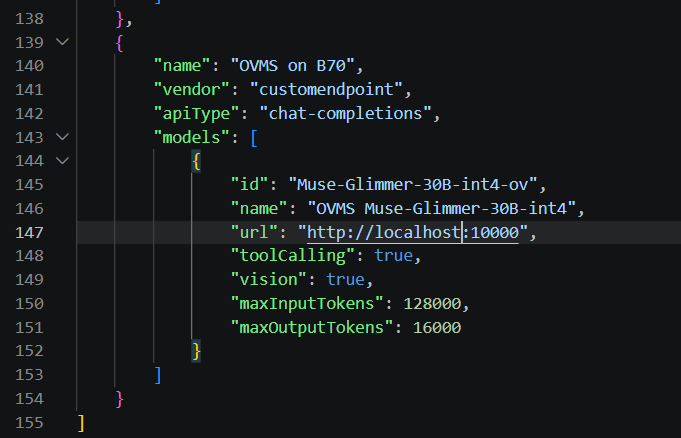
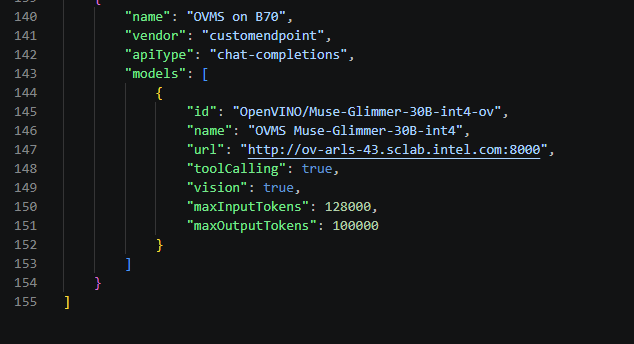
Review

diff --git a/demos/copilot_integration/README.md b/demos/copilot_integration/README.md
@@ -7,16 +7,32 @@ GitHub Copilot in Visual Studio Code can talk to **any** OpenAI-compatible endpo
 feature. This demo shows how to serve a local model with OpenVINO Model Server (OVMS) and use it as
 the backing model for Copilot Chat / Agent mode - keeping your code and prompts on your own hardware.
 
-In the walkthrough below we use the vision- and tool-calling-capable model
-[`OpenVINO/Muse-Glimmer-30B-int4-ov`](https://huggingface.co/OpenVINO/Muse-Glimmer-30B-int4-ov)
-running on an Intel Arc GPU, and let Copilot Agent build a small full-stack application end to end.
+In the walkthrough below we let Copilot Agent build a small full-stack application end to end, backed
+by a model of your choice from the [Suggested models](#suggested-models) table running on OVMS.
 
 ## Requirements
 
 - Visual Studio Code with GitHub Copilot enabled
-- An OVMS endpoint serving a chat-completions model (see [Deploy OVMS](#1-deploy-ovms))
-- For self-hosting: Linux with Docker and an Intel GPU with at least 16 GB of VRAM
-  (`Muse-Glimmer-30B-int4-ov` is a 30B model with ~15 GB of INT4 weights)
+- An OVMS endpoint serving a chat-completions model with tool-calling support. Either deploy one
+  yourself (see [Deploy OVMS](#1-deploy-ovms)), or if someone else already has one running for you,
+  skip straight to [Configure VS Code](#2-configure-vs-code) - you'll only need its endpoint URL and
+  served model name.
+- For self-hosting: Linux with Docker and an Intel GPU
+- Memory requirements depend on the chosen model (see table below)
+
+## Suggested models
+
+| Model | HF Link | Notes |
+|---|---|---|
+| `OpenVINO/Qwen3.8-27B-int8-ov` | [link](https://huggingface.co/OpenVINO/Qwen3.8-27B-int8-ov) | Vision-capable (VLM); general purpose chat/agent model |
+| `OpenVINO/Qwen3.6-35B-A3B-int4-ov` | [link](https://huggingface.co/OpenVINO/Qwen3.6-35B-A3B-int4-ov) | Vision-capable (VLM); general purpose chat/agent model |
+| `OpenVINO/Muse-Glimmer-30B-int4-ov` | [link](https://huggingface.co/OpenVINO/Muse-Glimmer-30B-int4-ov) | Vision-capable (VLM); general purpose chat/agent model; used and tested in the walkthrough below |
+| `OpenVINO/gpt-oss-20b-int4-ov` | [link](https://huggingface.co/OpenVINO/gpt-oss-20b-int4-ov) | General purpose chat/agent model |
+| `OpenVINO/Qwen3-Coder-Next` | **To be published soon** | Big coding model; available only on iGPU with minimum 64GB of RAM |
+| `OpenVINO/Qwen3.5-9B-int4-ov` | [link](https://huggingface.co/OpenVINO/Qwen3.5-9B-int4-ov) | Smaller model, use when RAM/VRAM is limited or for quick, low-latency edits; not recommended for harder coding tasks |
+
+The walkthrough below was tested with `Muse-Glimmer-30B-int4-ov` on a discrete Intel Arc B70 GPU; the
+other models are suggested but not verified with this specific demo.
 
 > **Note:** Any OpenAI chat-completions model served by OVMS will work with the VS Code steps below -
 > just adjust the model id/name accordingly.
@@ -28,26 +44,28 @@ running on an Intel Arc GPU, and let Copilot Agent build a small full-stack appl
 > You only need the endpoint URL and the served model name.
 
 Deploy the model with Docker on a Linux host with an Intel GPU. The command below exposes the REST
-API on port `10000`, matching the URL used later in VS Code (`http://localhost:10000`):
+API on port `8000`, matching the URL used later in VS Code (`http://localhost:8000`). Only
+`--source_model` needs to change to deploy a different model from the [Suggested models](#suggested-models)
+table:
 
 ```bash
+mkdir -p ${HOME}/models/cache
 export GPU_ARGS=$(if ls /dev/dri/render* >/dev/null 2>&1; then echo "--device /dev/dri --group-add $(stat -c '%g' /dev/dri/render* | head -n1)"; fi)
 docker run -d ${GPU_ARGS} -u $(id -u):$(id -g) --rm \
-    -p 10000:10000 -v ${HOME}/models:/models:rw \
+    -p 8000:8000 -v ${HOME}/models:/models:rw \
     openvino/model_server:latest-gpu \
-    --rest_port 10000 --model_repository_path /models \
-    --source_model OpenVINO/Muse-Glimmer-30B-int4-ov \
-    --model_name Muse-Glimmer-30B-int4-ov \
-    --target_device GPU
+    --rest_port 8000 --model_repository_path /models --cache_dir /models/cache \
+    --source_model OpenVINO/Muse-Glimmer-30B-int4-ov
 ```
 
 > **Note:** The first launch downloads the model into `${HOME}/models` and compiles it for the GPU,
-> which can take a while. Subsequent starts reuse the cached model and are fast.
+> which can take a while depending on your connection and hardware. Subsequent starts reuse the
+> downloaded model and the compiled-model cache in `${HOME}/models/cache`, and are ready in a few seconds.
 
 Verify the model is being served:
 
 ```bash
-curl http://localhost:10000/v1/models
+curl http://localhost:8000/v1/models
 ```
 
 ## 2. Configure VS Code
@@ -59,14 +77,17 @@ Add the OVMS endpoint as a custom model in Copilot's language model picker.
 3. Choose **Custom Endpoint**.
 4. Enter a **group name** that identifies the endpoint, e.g. `OVMS on B70`
    (here `B70` refers to the Intel Arc GPU running OVMS).
-5. Leave the **API key** empty (OVMS does not require one).
+5. Leave the **API key** empty, or set one if OVMS is configured to require it (must match on both sides).
 6. Select the **API type** - this demo uses **chat completions**.
 7. Fill in the model details in the generated configuration:
    - **name** - display name shown in VS Code, e.g. `OVMS Muse-Glimmer-30B-int4`
-   - **id** - the model name as deployed in OVMS (`--model_name`), here `Muse-Glimmer-30B-int4-ov`
-   - **url** - the OVMS endpoint URL, here `http://localhost:10000`
+   - **id** - the model name as deployed in OVMS (`--source_model`), here `OpenVINO/Muse-Glimmer-30B-int4-ov`
+   - **url** - the OVMS endpoint URL, here `http://localhost:8000`
 
 ![Fill in model name, id and url](images/FillModelIdNameUrl.png)
+
+> See VS Code's [model configuration reference](https://code.visualstudio.com/docs/agent-customization/language-models#_model-configuration-reference)
+> for the full list of available fields (including `toolCalling` and `vision`).
 
 > **Note:** The **id** must exactly match the model name served by OVMS (the `--model_name` value, or
 > the `--source_model` string if `--model_name` is omitted). `toolCalling` and `vision` are enabled
@@ -76,6 +97,9 @@ Add the OVMS endpoint as a custom model in Copilot's language model picker.
 
 1. Start a new Copilot Chat / Agent session and select your model (e.g. `OVMS Muse-Glimmer-30B-int4`)
    from the model picker.
+
+![Select model](images/SelectModel.png)
+
 2. Enter your prompt.
 3. When Copilot asks for permission to edit files or run commands, click **Allow**, then wait for the
    model to finish.
@@ -84,20 +108,13 @@ Add the OVMS endpoint as a custom model in Copilot's language model picker.
 
 This prompt is adapted from Intel's
 [Coding Agentic Workflow](https://github.com/intel-samples/agentic-demos/tree/main/CodingAgenticWorkflow)
-sample. It references two reference UI mock-up images that guide the generated interface. Download them
-first and update the paths in the prompt to match where you saved them:
+sample. It references two reference UI mock-up images that guide the generated interface:
 
 - [feedback-input.png](https://github.com/intel-samples/agentic-demos/blob/main/CodingAgenticWorkflow/assets/feedback-input.png)
 - [admin-dashboard-ui.png](https://github.com/intel-samples/agentic-demos/blob/main/CodingAgenticWorkflow/assets/admin-dashboard-ui.png)
 
-```bash
-mkdir -p ~/Downloads
-curl -L -o ~/Downloads/feedback-input.png https://raw.githubusercontent.com/intel-samples/agentic-demos/main/CodingAgenticWorkflow/assets/feedback-input.png
-curl -L -o ~/Downloads/admin-dashboard-ui.png https://raw.githubusercontent.com/intel-samples/agentic-demos/main/CodingAgenticWorkflow/assets/admin-dashboard-ui.png
-```
-
-> **Note:** The prompt below references the images by local file path (e.g.
-> `/home/<user>/Downloads/admin-dashboard-ui.png`). Adjust these paths to your own download location.
+> **Note:** Download the images and paste them directly into the Copilot Chat input (as image attachments)
+> alongside the prompt below.
 
 ```text
 Build a full-stack Customer Feedback Triage application from scratch.
@@ -127,9 +144,7 @@ Follow these exact architectural requirements:
 
 5. Please test the backend API.
 
-Reference implementation images:
-/home/<user>/Downloads/admin-dashboard-ui.png
-/home/<user>/Downloads/feedback-input.png
+Reference implementation images are attached.
 
 Notes:
 - Execute this incrementally. Read your own compiler errors, run the installation commands, create the files, and let me know when it's fully operational.
